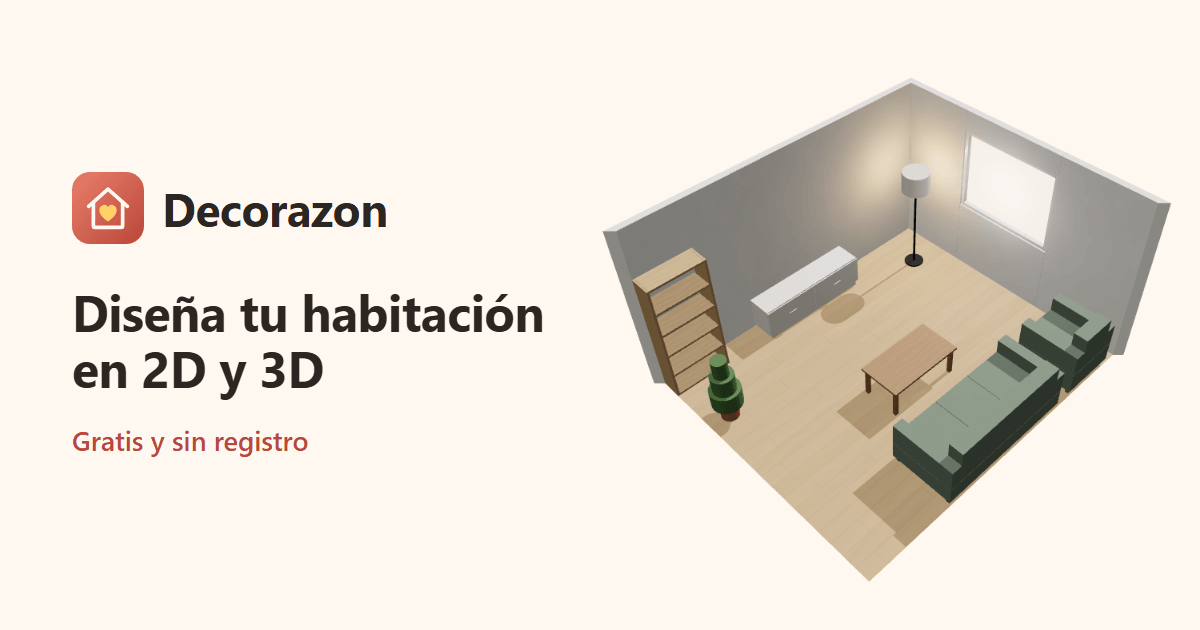
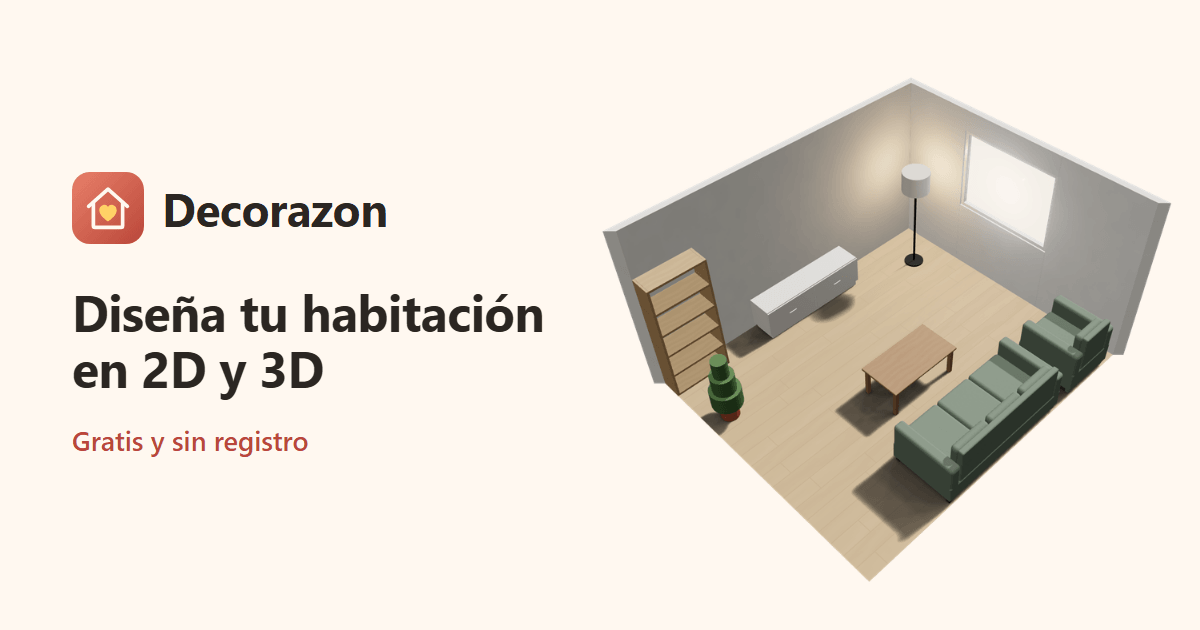
docs(web): imágenes de ejemplo, de redes y captura 3D de «Cómo funciona» con redondeos y sombras suaves; CLAUDE.md
Las imágenes de ejemplo salen de «Descargar imagen 3D» (2400 × 1600) reducidas
a 1200 × 800. Las otras cuatro capturas de «Cómo funciona» son vistas 2D y no
cambian. Plan 27 cerrado.

Claude-Session: https://claude.ai/code/session_01JaRMzYRcRvhKeiBV5tQkon

diff --git a/CLAUDE.md b/CLAUDE.md
@@ -93,7 +93,7 @@ Los tests de integración llevan `[Trait("Categoria","Integracion")]`; de ahí e
 - La barra del editor tiene tres zonas (diseño y guardado, pasos, deshacer/menú/cuenta). "Nuevo diseño", "Imprimir" y "Sugerencias" están en el menú "Más acciones" (`MenuMas` en `BarraSuperior.tsx`): solo existen en el DOM con el menú abierto, y al elegir una opción el foco vuelve al botón del menú **antes** de ejecutarla (la hoja para imprimir guarda `document.activeElement` para devolverle el foco al cerrarse). En móvil el botón de sugerencias va en las pestañas de abajo (`PestanasDeHojas`), al alcance del pulgar, y la opción del menú se oculta por CSS. 2D/3D no va en la barra sino sobre el plano (`SelectorDeVista` en `Editor.tsx`, dentro de `.editor__lienzo`, porque el `Lienzo` se desmonta en 3D); zoom y Encuadrar abajo a la derecha (`.lienzo__controles`, y la barra de la vista 3D en el mismo sitio); las pistas son una píldora abajo a la izquierda que en móvil enseña solo las dos primeras. El panel derecho solo existe en escritorio cuando hay una selección del paso (`seleccionDelPaso` en `almacen.ts`; clases `editor__cuerpo--sin-panel` y `editor__derecha--oculta`); los avisos de conflicto son un chip arriba a la izquierda del plano (`AvisosDelPlano`, en 2D y 3D) que despliega la lista, y los atajos de teclado van en un `<details>` al pie del panel. Las flechas mueven lo seleccionado 1 cm (10 con Mayúsculas) **sin imán** (`desplazarElemento` en `nucleo/edicion/elementos.ts`; `moverElemento` siempre imanta y desharía el ajuste fino) y las pulsaciones seguidas son un solo paso de deshacer (grupo `teclado:…`, cerrado al soltar la tecla); se ignoran con `e.defaultPrevented`, porque el menú ya usa ↑↓. El chip de avisos no lleva `role="status"` (en reposo el único `status` del editor es el guardado de la barra, y así lo cuentan los tests de `EditorDeDiseno`): el lector de pantalla recibe el número de avisos por una región `aria-live` oculta que va siempre en el mismo sitio del árbol, con 600 ms de retardo para que un arrastre solo anuncie el final y sin repetir el mismo número. El catálogo es una rejilla de dos columnas con chips de grupo (un chip pulsado deja solo ese grupo; el buscador filtra dentro de lo que se enseña), y el panel de Estancia termina con el botón "Amueblar" que pasa al paso 2. Cada tarjeta lleva la miniatura del tipo (`MiniaturaDeTipo`, cacheada por tipo), dibujada con la misma `Pieza` (`lienzo/capas/Pieza.tsx`) que pinta el plano: lo que se ve en la tarjeta es lo que se verá en el plano. Delante van «Favoritos» (estrella, un botón hermano de la tarjeta dentro del `<li>`: un botón dentro de otro no es válido) y «Usados hace poco» (los apunta `anadirTipo`), solo si tienen algo; viven en `localStorage` (`decorazon.catalogo.favoritos` y `decorazon.catalogo.recientes`) por `paneles/catalogoLocal.ts`, que guarda en memoria lo que `localStorage` rechaza y avisa a React con `useSyncExternalStore`.
 - xUnit serializa los datos de `InlineData`: un sustituto suelto llega al test como U+FFFD. Esas cadenas se arman dentro del test.
 - jsdom trata un `<footer>` dentro de `<main>` como `contentinfo` y Chromium no: en los e2e, el pie del inicio se busca por su clase.
-- «Descargar plano» (`editor/hoja/exportarPlano.tsx`) pinta el svg de `PlanoDelDiseno` con `renderToStaticMarkup` y le incrusta `ESTILOS_DEL_PLANO`, una copia a mano de las reglas de `lienzo.css` que el plano necesita con los colores de `base.css` resueltos (una imagen svg no ve las hojas de estilo): **al cambiar `lienzo.css` hay que revisarlo**. Sin canvas (jsdom) devuelve el svg. «Descargar imagen 3D» y la hoja para imprimir capturan con `CapturaFueraDePantalla` (1200 × 800, 8 s de tope). «Descargar diseño» produce `<nombre>.decorazon.json` con `serializarDocumento` (el mismo JSON que viaja al servidor); «Abrir un fichero» (inicio) e «Importar» (Mis diseños) lo leen con `importarDiseno` (`editor/persistencia/fichero.ts`: tope de 2 MB, `JSON.parse` y `validarDocumento`). `HojaImpresion` acepta `doc` y `nombre` por props (la vista compartida) y sin ellos lee el editor.
+- «Descargar plano» (`editor/hoja/exportarPlano.tsx`) pinta el svg de `PlanoDelDiseno` con `renderToStaticMarkup` y le incrusta `ESTILOS_DEL_PLANO`, una copia a mano de las reglas de `lienzo.css` que el plano necesita con los colores de `base.css` resueltos (una imagen svg no ve las hojas de estilo): **al cambiar `lienzo.css` hay que revisarlo**. Sin canvas (jsdom) devuelve el svg. «Descargar imagen 3D» y la hoja para imprimir capturan con `CapturaFueraDePantalla` (1200 × 800 a dpr 2, un PNG de 2400 × 1600; 8 s de tope). `Captura3D` monta `Escena3D` con `sombras="suaves"`: `SombrasSuaves` (`AccumulativeShadows` + `RandomizedLight` de drei, 24 pasos horneados antes del primer fotograma, `memo` por valor porque drei rehornea en cada render) acumula sombras con penumbra sobre un receptor con la forma de la **planta** (`geometriaReceptor`, uv de 0 a 1; el plano cuadrado de drei dejaba caer sombras fuera de la estancia sobre el fondo transparente) y el suelo deja de recibir la sombra dura del sol. El receptor va con `frustumCulled = false`: el horneado desenvuelve por uv e ignora la posición, pero three lo descartaba por su caja envolvente y el suelo salía negro. `Disparar` sube el dpr solo dos fotogramas antes de capturar (los caros, en SwiftShader). La vista interactiva sigue con sombras duras y dpr [1, 2]; la vista previa, a dpr 1 y también con sombras suaves. «Descargar diseño» produce `<nombre>.decorazon.json` con `serializarDocumento` (el mismo JSON que viaja al servidor); «Abrir un fichero» (inicio) e «Importar» (Mis diseños) lo leen con `importarDiseno` (`editor/persistencia/fichero.ts`: tope de 2 MB, `JSON.parse` y `validarDocumento`). `HojaImpresion` acepta `doc` y `nombre` por props (la vista compartida) y sin ellos lee el editor.
 - `Elemento` lleva dos campos opcionales: `bloqueado?: true` (solo se guarda si es verdadero; `bloquearElemento` lo quita al liberar) y `nombre?: string` (hasta `LIMITE_NOMBRE_ELEMENTO` = 60, sin espacios a los lados; `renombrarElemento` lo quita si queda vacío). Un bloqueado se selecciona y se edita, pero `moverElemento` y `desplazarElemento` devuelven el mismo documento (así arrastre, tirador, flechas y R no apuntan un paso de deshacer vacío: `cambiar` ignora el mismo documento), `editarElemento` ignora su `rotacion` y ni `editar` ni `cambiarTipo` lo imantan (el imán también lo movería al cambiar medidas o producto), `pulsarElemento` no abre el arrastre y `CapaElementos` deja pasar el toque (`data-bloqueado`: arrastrar desde él hace pan y el toque sin mover no suelta la selección), el `Lienzo` no monta el `TiradorGiro` y `CapaElementos` dibuja un candado (`data-candado`, a tamaño fijo con `scale(1/escala)`, también en el plano exportado: `ESTILOS_DEL_PLANO`). `duplicarElemento` copia el nombre y la copia nace libre. `nombreDeElemento` prefiere el nombre propio al producto y al tipo: plano, panel, hoja y vista compartida lo heredan; `filasDeMuebles` añade `tipo` para escribirlo debajo. «Voltear» (`voltearElemento`) cambia izquierda ↔ derecha en toda variante que admita los dos valores (`sePuedeVoltear`); en una puerta cambia la bisagra.
 - La cinta métrica es estado local del `Lienzo` (`midiendo`, `medida`): midiendo, ninguna capa lleva `alPulsar` ni hay tiradores (el toque cae al fondo) y un toque sin arrastre fija un punto en cm enteros; entre el primero y el segundo la cota sigue al puntero si no hay botón pulsado. Escape (oyente propio en `window`), el botón o cambiar de paso la quitan; no se guarda. `CotasElemento` pasa a `cotasAParedes` las huellas de los vecinos no pisables (`obstaculos`): la cota va a lo primero que corte el rayo.
 - La vista previa (JPEG de 1200 × 630 que hace el navegador del dueño con `GeneradorDeVistaPrevia`) se rehace al guardar **cualquier** diseño de la cuenta (`RefrescoDeVistaPrevia`, como mucho una cada 5 minutos por diseño, `frecuencia.ts`), no solo los compartidos: es la miniatura de Mis diseños. `GET /disenos/{id}/vista-previa` la sirve al dueño (`private, no-store`: la dirección no cambia al rehacer la imagen y la web pide por id, así que una caché HTTP devolvería la vieja; ajeno o sin imagen, 404) y el resumen del listado trae `fechaDeVistaPrevia` (null sin imagen; el repositorio EF la proyecta con una subconsulta, sin leer la imagen). `MiniaturaDeDiseno` la pide con `parseAs: 'blob'` y guarda el object URL por `id:fecha` en `paginas/miniaturas.ts` para que buscar u ordenar no la vuelva a pedir (un fallo no se guarda). La espera de 5 minutos es «en cabeza»: el primer guardado hace la imagen al momento y los siguientes esperan; si se sale del editor con uno esperando, `RefrescoDeVistaPrevia` lo encola (`colaDeVistasPrevias.ts`) y `AnfitrionDeVistasPrevias`, montado en `App` fuera de las rutas, hace esa última imagen con lo último guardado. La marca de la espera es `decorazon.vistaPrevia.<id>` en `localStorage` (una fecha; no se borra). «Buscar» y «Ordenar por» de Mis diseños van en el cliente (`ordenarYFiltrar`; sin tildes ni mayúsculas con `normalize('NFD')`).
@@ -109,7 +109,7 @@ Los tests de integración llevan `[Trait("Categoria","Integracion")]`; de ahí e
 - Teclado en el plano (M-28): con `alPulsar`, `CapaElementos` añade una capa de **asas de foco** (`.capa-elementos__foco`: un `<polygon role="button" tabIndex={0}>` con la caja de cada pieza, sin relleno ni puntero, `aria-label` con nombre, medidas y «bloqueado/a» según el género del tipo, y `aria-current` en la seleccionada), ordenada por posición con las alfombras primero. Recibir el foco selecciona (así Supr, R y las flechas actúan sobre lo que se ve con el foco); Intro y Espacio también; a mitad de un arrastre, nada. **El orden de pintado de las piezas no cambia con la posición** (alfombras debajo, luego inserción): reordenar el DOM durante un arrastre hace que el navegador suelte la captura del puntero y el arrastre se corte (`e2e/arrastre.spec.ts`), y además cambiaría el apilado. El `<svg>` del plano es `role="group"` y los nombres van `aria-hidden`. Sin `alPulsar` (paso 1, midiendo, plano exportado, vista compartida) no hay asas.
 - Instalar como app (M-25): `instalacion.ts` guarda el `beforeinstallprompt` (anulado) y `appinstalled`; `conectarInstalacion()` va en `main.tsx` antes de `createRoot` porque el evento puede llegar antes de montar. `useEstadoDeInstalacion()` da `no` (ya en standalone o sin aviso), `aviso` o `ios` (iPhone, o iPad que se presenta como Mac con pantalla táctil); «Instalar Decorazon» en `MenuMas` llama a `instalar()` (consume el aviso: Chrome solo deja enseñarlo una vez) o abre la nota de iOS (`Confirmar` con `soloAceptar`).
 - Modo oscuro (M-29): solo `prefers-color-scheme: dark` sobre los tokens de `base.css`, sin selector. Los colores fijos de las hojas son tokens: `--sobre-tinta` (texto sobre fondo tinta), `--primario` + `--sobre-terracota` (botones primarios; de noche la terracota del texto se aclara y la del fondo no), `--bien`, `--peligro-suave`, `--sombra` (`rgb(var(--sombra) / 0.1)`). **El plano no cambia**: `.lienzo` lleva fondo blanco fijo y `.lienzo__svg`, `.panel-catalogo__miniatura`, `.hoja-impresion__pagina`, `.compartido__plano` y `.plano-ampliado__plano` redefinen los tokens claros (`lienzo.css`): todo lo que pinta el plano es papel claro también de noche; la 3D tampoco cambia. Texto sobre `--peligro` va con `--sobre-peligro`. `contraste.test.ts` comprueba los pares WCAG de los dos esquemas (texto 4,5:1, bordes 3:1) sobre `base.css?raw`; `e2e/oscuro.spec.ts` (`colorScheme: dark`) comprueba fondo oscuro, plano claro y consola limpia, y deja capturas en `test-results/`.
-- Los tres ejemplos del inicio viven en `web/src/ejemplos/index.ts` como documentos construidos con `documentoNuevo` y `elementoNuevo` (no JSON): `ejemplos.test.ts` comprueba que validan, no tienen conflictos y tienen imagen. Las imágenes (`web/public/ejemplos/*.png`) se regeneran abriendo una copia del ejemplo y pulsando «Descargar imagen 3D». «Abrir una copia» sigue el flujo de la vista compartida (`sustituiriaDisenoAnonimo` → `Confirmar` → `empezarAnonimoCon`). La guía del primer uso (`editor/GuiaInicial.tsx`) solo sale al crear una estancia anónima con el editor ya montado (suscripción al almacén en `Editor.tsx`) y deja la marca `decorazon.guia = 'vista'` (`editor/marcaDeGuia.ts`); los e2e la llevan puesta de antemano con `storageState` (`e2e/estado-sin-guia.json`, en las dos configuraciones de Playwright) y solo `ejemplos.spec.ts` la quita para probarla.
+- Los tres ejemplos del inicio viven en `web/src/ejemplos/index.ts` como documentos construidos con `documentoNuevo` y `elementoNuevo` (no JSON): `ejemplos.test.ts` comprueba que validan, no tienen conflictos y tienen imagen. Las imágenes (`web/public/ejemplos/*.png`) se regeneran abriendo una copia del ejemplo y pulsando «Descargar imagen 3D», y se reducen a 1200 × 800 (la captura sale a 2400 × 1600; la primera es el LCP del inicio); después, `npm run imagen-redes`. «Abrir una copia» sigue el flujo de la vista compartida (`sustituiriaDisenoAnonimo` → `Confirmar` → `empezarAnonimoCon`). La guía del primer uso (`editor/GuiaInicial.tsx`) solo sale al crear una estancia anónima con el editor ya montado (suscripción al almacén en `Editor.tsx`) y deja la marca `decorazon.guia = 'vista'` (`editor/marcaDeGuia.ts`); los e2e la llevan puesta de antemano con `storageState` (`e2e/estado-sin-guia.json`, en las dos configuraciones de Playwright) y solo `ejemplos.spec.ts` la quita para probarla.
 - En react-three-fiber, si una prop deja de pasarse a un objeto cuyo constructor lleva argumentos (`OrbitControls(object, domElement)`), `diffProps` la pone a **0**, no a su valor por defecto: `rotateSpeed` 0 (no gira), `enableZoom` 0 (el pellizco muere porque los manejadores táctiles comparan por veracidad). Las props que cambian según el modo se pasan siempre, con ternario.
 - El build de los e2e es de producción y leería `VITE_ANALITICA_SITIO` de `.env.production`; el tracker falla por CORS desde `localhost` y `vista3d.spec.ts` exige consola limpia. `playwright.config.ts` arranca el `webServer` con esa variable vacía.
 

diff --git a/docs/superpowers/plans/2026-11-08-27-captura-suave.md b/docs/superpowers/plans/2026-11-08-27-captura-suave.md
@@ -12,7 +12,7 @@
 - [x] 2. `Escena3D` prop `sombras`, `Estancia3D` prop `sueloConSombra`; `Escena3D.sombras.test.tsx`.
 - [x] 3. `Captura3D` con `dpr` escalonado, `antialias` y `sombras="suaves"`; `CapturaFueraDePantalla` pasa `dpr={2}`; tests.
 - [x] 4. Medir: build y presupuesto, e2e (hoja ≤ 20 s), tiempo de la captura en SwiftShader; afinar `frames`/`amount`; mirar salón y dormitorio.
-- [ ] 5. Cierre (con el plan 26 en `main`): regenerar `public/ejemplos/*.png` (reducidos a 1200 × 800), `npm run imagen-redes`, `public/capturas/*.webp`; `CLAUDE.md`; PR.
+- [x] 5. Cierre (con el plan 26 en `main`): regenerar `public/ejemplos/*.png` (reducidos a 1200 × 800), `npm run imagen-redes`, `public/capturas/*.webp`; `CLAUDE.md`; PR.
 
 ## Hallazgos (tarea 4)
 
